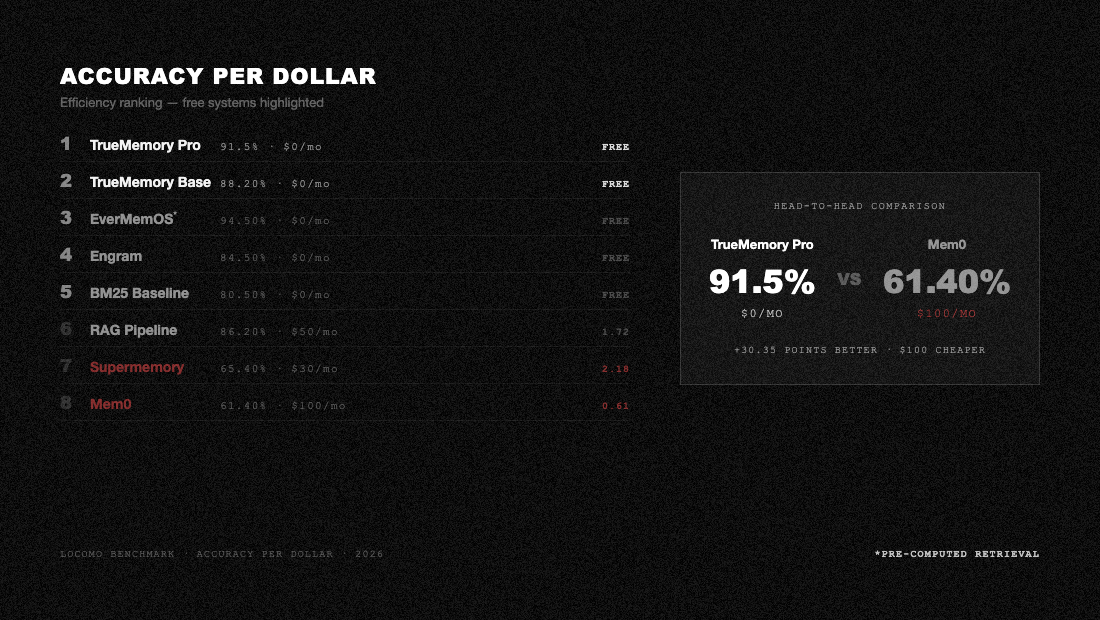
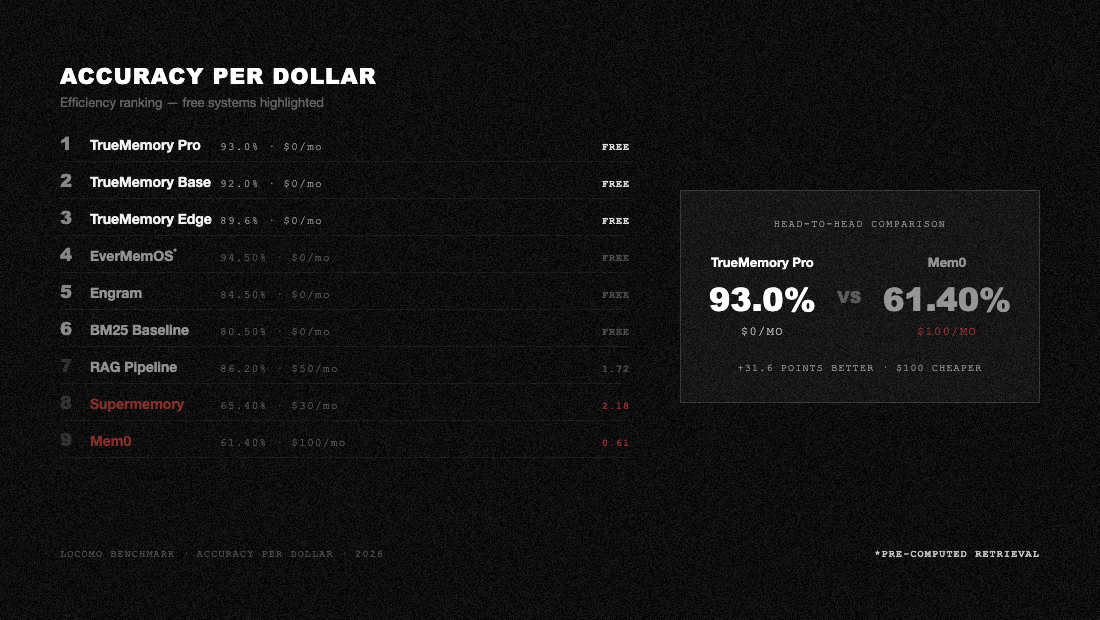
docs: update all charts with 3-run means, add HTML sources, fix email
Charts updated with verified 3-run benchmark means:
- EverMemOS* 94.5%, Pro 93.0%, Base 92.0%, Edge 89.6%
- Dark theme with hatched TrueMemory bars, gray competitors, red underperformers
- All three TrueMemory tiers now shown on every chart
- HTML source files included for future updates

Also:
- Email: buildingjoshbetter@gmail.com → josh@sauronlabs.ai
- Removed stale "charts show v0.3.0" disclaimer (charts are now current)

diff --git a/README.md b/README.md
@@ -29,7 +29,7 @@
 
 Tested on [LoCoMo](https://github.com/snap-research/locomo), the standard benchmark for conversational memory. 1,540 questions across 10 conversations. All 8 systems share the same answer model, judge, scoring, top-k, and byte-identical answer prompt — only retrieval differs.
 
-> **Note on charts:** the hero banner and the three charts below still show the v0.3.0 single-Pro-tier layout. Chart regeneration is tracked for a later release; all numerical claims in the README text and tables reflect the current 3-run mean scores (89.6 / 92.0 / 93.0%).
+> All charts reflect the current 3-run mean scores (89.6 / 92.0 / 93.0%). Source HTML files in [`assets/charts/`](assets/charts/).
 
 <p align="center">
   <img src="https://raw.githubusercontent.com/buildingjoshbetter/TrueMemory/main/assets/charts/leaderboard-bar.png?v=2" alt="LoCoMo 8-System Comparison" />
@@ -260,4 +260,4 @@ Every benchmark script is self-contained and runs on [Modal](https://modal.com).
 
 ## ⚖ License
 
-Licensed under [AGPL-3.0](https://github.com/buildingjoshbetter/TrueMemory/blob/main/LICENSE). Free for personal and research use. Commercial use requires a separate license — contact buildingjoshbetter@gmail.com.
+Licensed under [AGPL-3.0](https://github.com/buildingjoshbetter/TrueMemory/blob/main/LICENSE). Free for personal and research use. Commercial use requires a separate license — contact josh@sauronlabs.ai.
